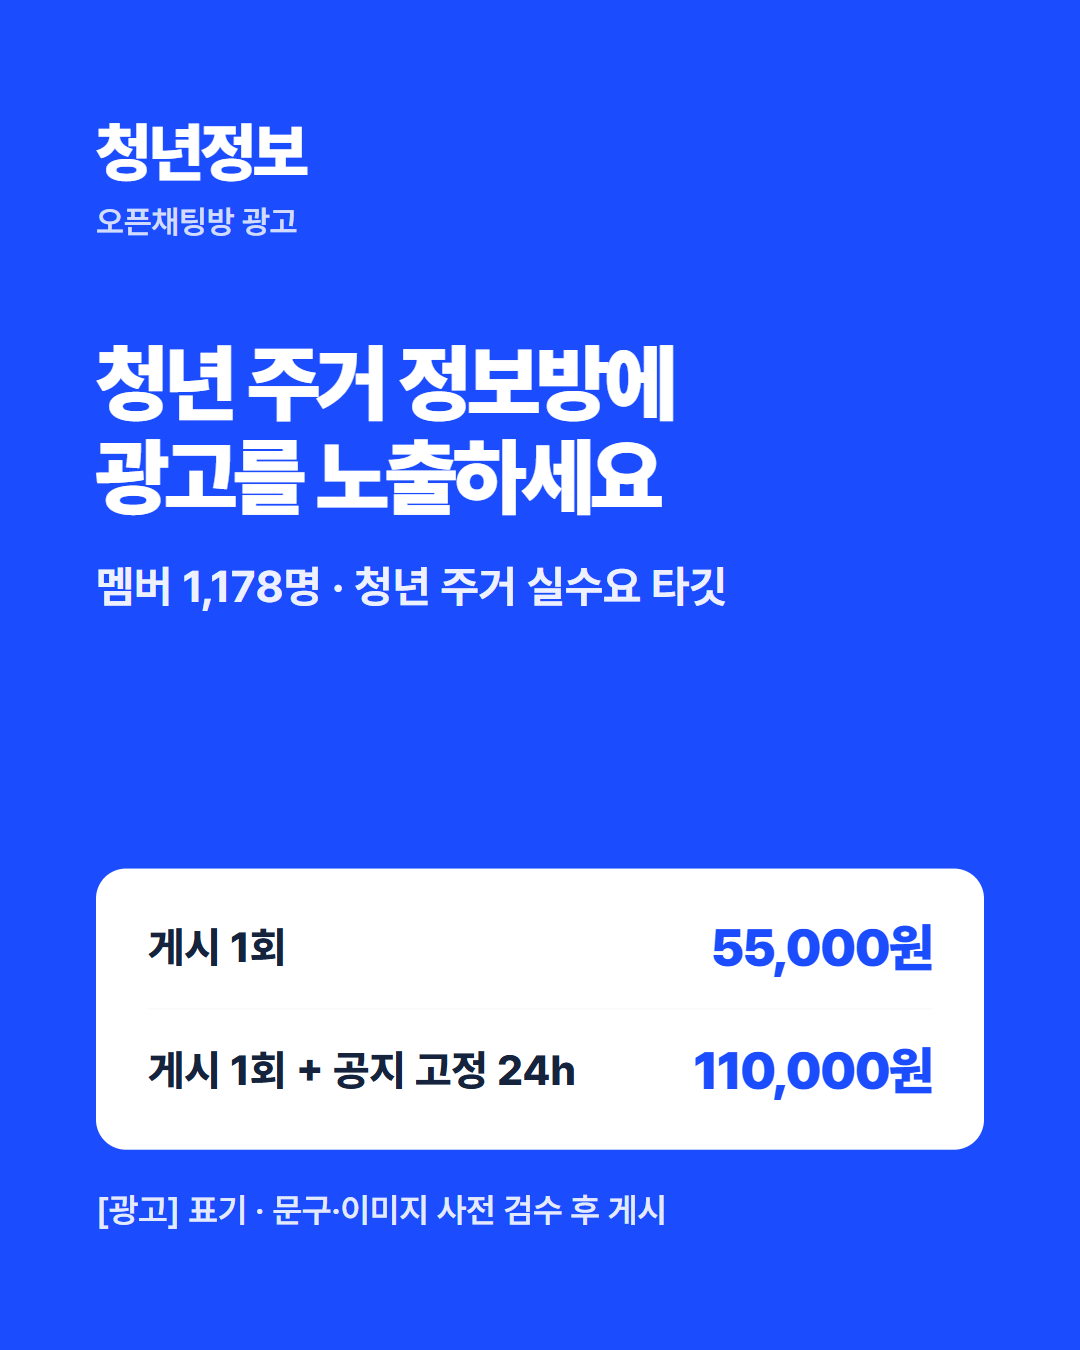
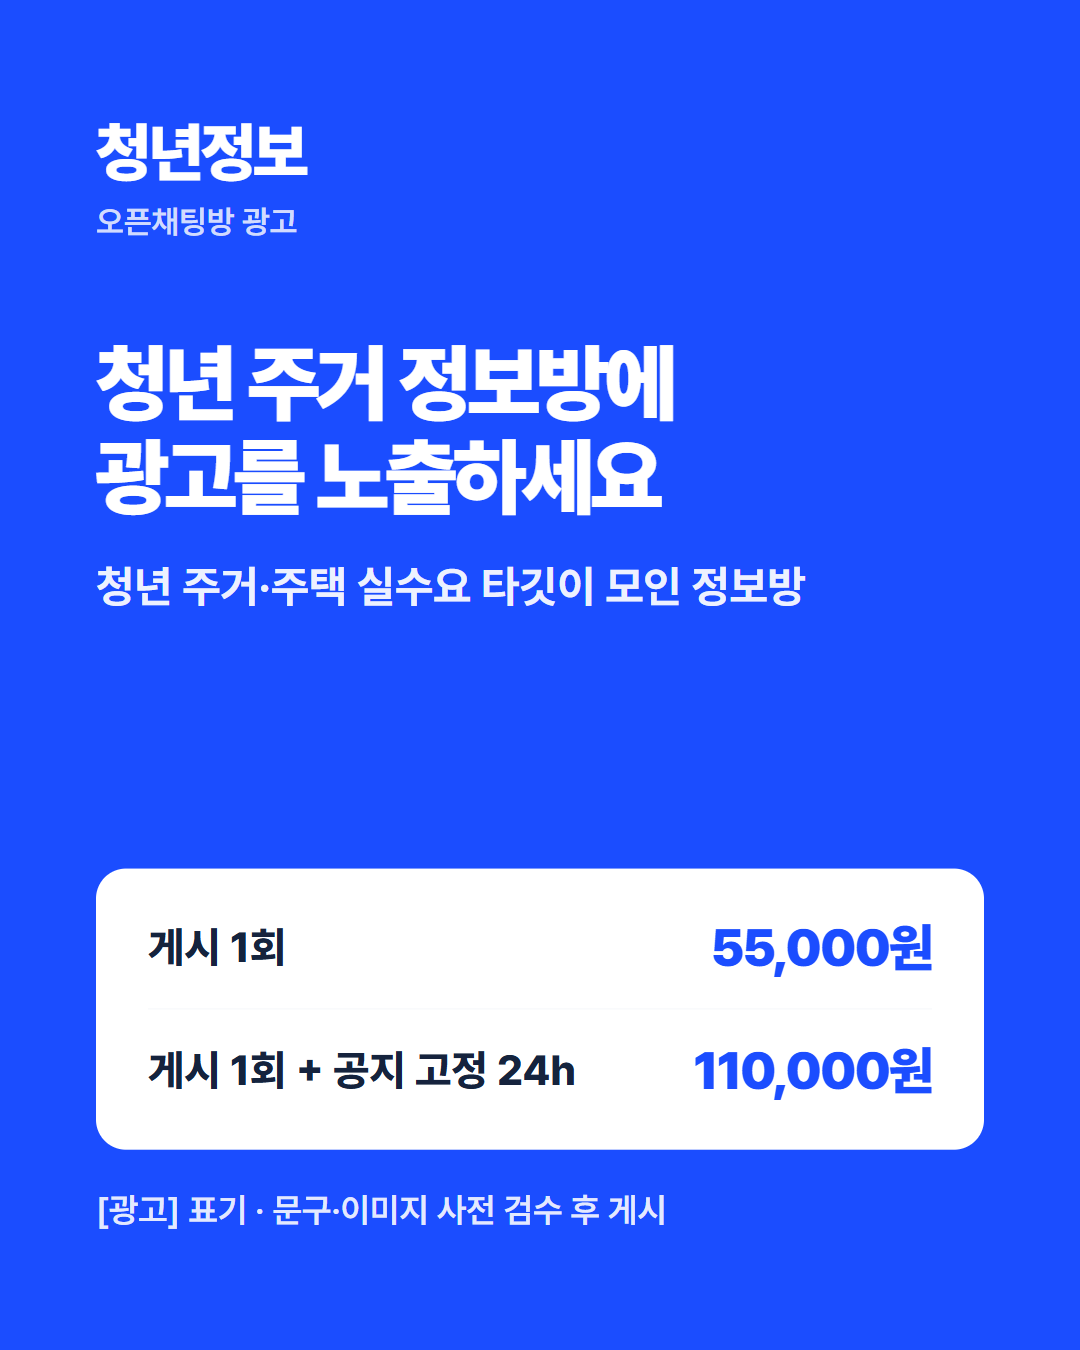
fix: 상세 이미지·폼 참가자수 하드코딩 제거 + pin 이미지 이전 BI(밝은 블루) 유지

Changed region(s): [[0.0917, 0.4044, 0.7639, 0.4667]]

diff --git a/payment_images/src/detail.html b/payment_images/src/detail.html
@@ -20,7 +20,7 @@
   <div class="logo">청년정보</div>
   <div class="tagline">오픈채팅방 광고</div>
   <div class="lead">청년 주거 정보방에<br>광고를 노출하세요</div>
-  <div class="members">멤버 1,178명 · 청년 주거 실수요 타깃</div>
+  <div class="members">청년 주거·주택 실수요 타깃이 모인 정보방</div>
   <div class="card">
     <div class="row"><span class="name">게시 1회</span><span class="p">55,000원</span></div>
     <div class="row"><span class="name">게시 1회 + 공지 고정 24h</span><span class="p">110,000원</span></div>

diff --git a/index.html b/index.html
@@ -26,7 +26,7 @@
 <div class="wrap">
   <div class="hero">
     <h1>고방 오픈카톡방 광고 신청</h1>
-    <p>청년 주거·주택·자금 지원 정보공유 (1,178명) · 스폰서 게시</p>
+    <p>청년 주거·주택·자금 지원 정보방 · 스폰서 게시</p>
   </div>
 
   <form id="form" class="form">
